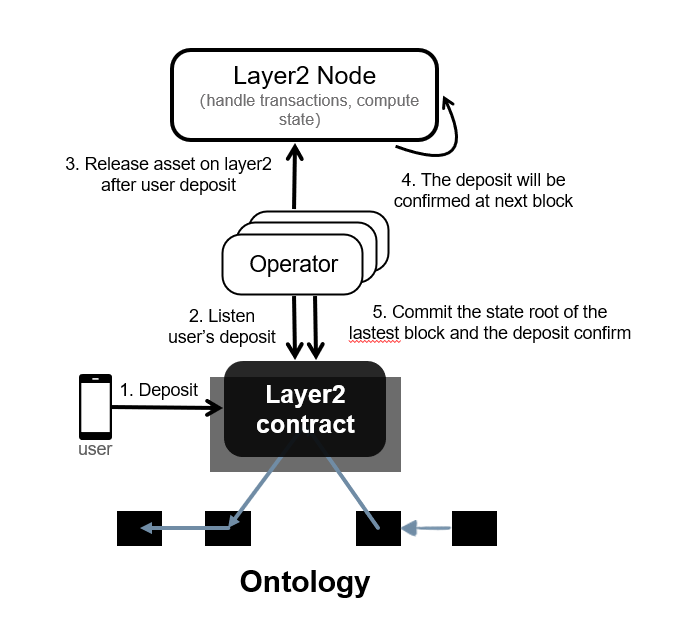
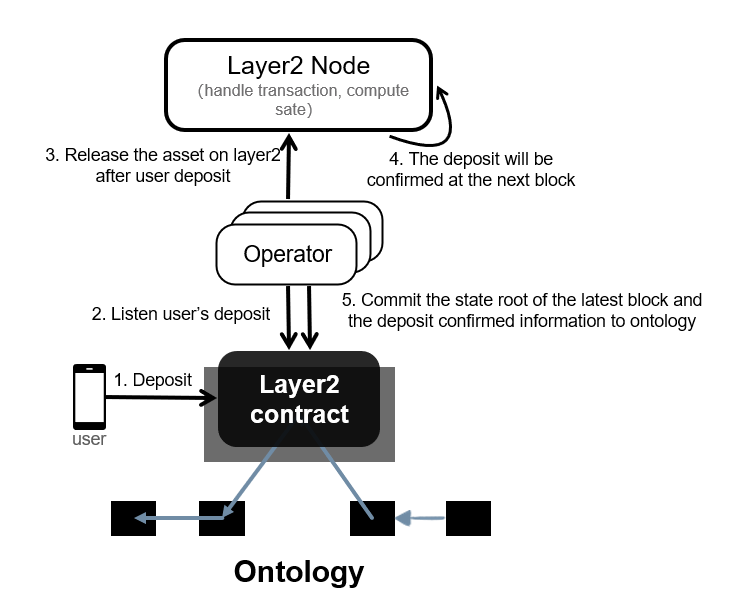
update document (#33)
* update doc

* update doc

* update doc

* update doc

* update doc

* udpate doc

Changed region(s): [[0.0616, 0.0619, 0.9545, 0.9593]]

diff --git a/doc/Layer2_User_Deployment_Guide.md b/doc/Layer2_User_Deployment_Guide.md
@@ -82,12 +82,12 @@ Sample `stateRoot`:
 
 ## Installing the Collector - Node
 
-Please refer to the Node program guide and download and compile the source code to run the node. Please reference [Layer2 Node install guide](https://github.com/ontio/ontology/blob/layer2/README.md), The node, `config.json` configuration file, and the `wallet_layer2.dat` Layer2 wallet file to the machine where the node is to be deployed. After uploading successfully, rename the wallet file from `wallet_layer2.dat` to `wallet.dat`.
+Please refer to the Node program guide and download and compile the source code to run the node. Please reference [Layer2 Node install guide](https://github.com/ontio/ontology/blob/layer2/README.md). After that, upload the ontology, `config.json` configuration file, and the `wallet_layer2.dat` Layer2 wallet file to the machine where the node is to be deployed. After uploading successfully, rename the wallet file from `wallet_layer2.dat` to `wallet.dat`.
 
 Use the following command to start the node:
 
 ```shell
-echo '1' | ./Node --layer2mode true --testmode-gen-block-time 6 --rpcport 20336 --nodeport 20338 --ws --wsport 20335 --rest --restport 20334 --loglevel 1 > log &
+echo '1' | ./ontology --layer2mode true --testmode-gen-block-time 6 --rpcport 20336 --nodeport 20338 --ws --wsport 20335 --rest --restport 20334 --loglevel 1 > log &
 ```
 
 Enter the password as `1` when prompted to start the node service in the back end.
@@ -171,7 +171,7 @@ CREATE TABLE `layer2commit` (
 
 ### Deploying the Operator
 
-Please refer to the operator guide and download and compile the source code. Please reference [Operator install guide](https://github.com/ontio/layer2/blob/master/operator/README.md) The operator, `config.json` configuration file, and the `wallet_layer2.dat` and `wallet_ontology.dat` wallet files to the machine on which the operator is to be deployed.
+Please refer to the operator guide and download and compile the source code. Please reference [Operator install guide](https://github.com/ontio/layer2/blob/master/operator/README.md). After that, upload the operator, `config.json` configuration file, and the `wallet_layer2.dat` and `wallet_ontology.dat` wallet files to the machine on which the operator is to be deployed.
 
 Download and set up the operator as described in the guide and compile the source code.
 
@@ -225,7 +225,7 @@ nohup ./Operator &
 
 Currently, the Layer2 transaction query service needs to be deployed on the same node as the operator service.
 
-Download and compile the server source code as per the server user guide, please reference [Layer2 server install guide](https://github.com/ontio/layer2/blob/master/server/README.md), and then upload the server, the `config.json` configuration file to the machine where server is to be deployed.
+Download and compile the server source code as per the server user guide. Please reference [Layer2 server install guide](https://github.com/ontio/layer2/blob/master/server/README.md). After that, upload then upload the server, the `config.json` configuration file to the machine where server is to be deployed.
 
 Sample server configuration:
 

diff --git a/README_CN.md b/README_CN.md
@@ -44,7 +44,7 @@ Operator是Layer2的安全守护程序，负责监听Ontology主链是否有到L
 
 5.	主链合约执行deposit释放操作，修改deposit资金状态为“已释放”。
 
-<div align=center><img width="360" height="450" src="doc/pic/user_deposit.png"/></div>
+<div align=center><img width="350" height="450" src="doc/pic/user_deposit_cn.png"/></div>
 
 ### Withdraw到Ontology
 
@@ -58,7 +58,7 @@ Operator是Layer2的安全守护程序，负责监听Ontology主链是否有到L
 
 5.	在State确认后，主链合约执行Withdraw释放请求，给目标账户转账，同时设置withdraw记录为“已释放“
 
-<div align=center><img width="499" height="450" src="doc/pic/user_withdraw.png"/></div>
+<div align=center><img width="450" height="450" src="doc/pic/user_withdraw_cn.png"/></div>
 
 ###	用户Layer交易
 
@@ -72,7 +72,7 @@ Operator是Layer2的安全守护程序，负责监听Ontology主链是否有到L
 
 ### 用户Layer交易
 
-<div align=center><img width="650" height="450" src="doc/pic/user_transfer.png"/></div>
+<div align=center><img width="550" height="450" src="doc/pic/user_transfer_cn.png"/></div>
 
 ### 存储以及验证
 
@@ -88,15 +88,22 @@ Operator是Layer2的安全守护程序，负责监听Ontology主链是否有到L
 
 6. 用户基于存储Proof和Layer2 State来验证Key的存储Value。
 
-<div align=center><img width="650" height="450" src="doc/pic/user_store.png"/></div>
+<div align=center><img width="650" height="450" src="doc/pic/user_store_cn.png"/></div>
 
 ## 安装
 
-安装手册 [layer2部署指导](https://github.com/ontio/layer2/blob/master/doc/Layer2_User_Deployment_Guide_CN.md)
+安装手册 [Layer2用户部署指导](https://github.com/ontio/layer2/blob/master/doc/Layer2_User_Deployment_Guide_CN.md)
+
+## Service
+
+Network|Layer2 Node|Layer2 Contract
+:--:|:--:|:--:
+MainNet|http://107.155.55.167:20336|5f4e1bdba28f0183fe4e90929de3b45baca2e831
+TestNet|http://152.32.217.204:20336|f05db35f619a991435b160b21e4d9371fdc0d9f2
 
 ## 使用
 
-请使用[Layer2的SDK](https://github.com/ontio/ontology-go-sdk/tree/layer2)
+请使用[Layer2 SDK](https://github.com/ontio/ontology-go-sdk/tree/layer2)
 
 以下是一个示例，从Layer2的合约7680bc3227089ee6ac790be698e88bcd0be04609中查询存储的Value并验证。
 

diff --git a/README.md b/README.md
@@ -44,7 +44,7 @@ With each new Layer2 block the state is updated and each new key inserted into t
 
 5.	The main chain releases the deposit amount and updates the deposit amount state to "released".
 
-<div align=center><img width="360" height="450" src="doc/pic/user_deposit.png"/></div>
+<div align=center><img width="550" height="450" src="doc/pic/user_deposit.png"/></div>
 
 ### Withdraw to Ontology
 
@@ -58,7 +58,7 @@ With each new Layer2 block the state is updated and each new key inserted into t
 
 5.	Once the state is confirmed, The main chain processes and executes the withdrawal release request, sends the withdrawal amount to the target account, and sets the withdraw state to "released".
 
-<div align=center><img width="499" height="450" src="doc/pic/user_withdraw.png"/></div>
+<div align=center><img width="750" height="450" src="doc/pic/user_withdraw.png"/></div>
 
 ###	User Layer Transactions
 
@@ -70,7 +70,7 @@ With each new Layer2 block the state is updated and each new key inserted into t
 
 4.	System then awaits state confirmation.
 
-<div align=center><img width="650" height="450" src="doc/pic/user_transfer.png"/></div>
+<div align=center><img width="550" height="450" src="doc/pic/user_transfer.png"/></div>
 
 ### Storage and Verification
 
@@ -90,11 +90,18 @@ With each new Layer2 block the state is updated and each new key inserted into t
 
 ## install
 
-please reference [layer2 deployment guide](https://github.com/ontio/layer2/blob/master/doc/Layer2_User_Deployment_Guide.md)
+Please reference [Layer2 User Deployment Guide](https://github.com/ontio/layer2/blob/master/doc/Layer2_User_Deployment_Guide.md)
+
+## Service
+
+Network|Layer2 Node|Layer2 Contract
+:--:|:--:|:--:
+MainNet|http://107.155.55.167:20336|5f4e1bdba28f0183fe4e90929de3b45baca2e831
+TestNet|http://152.32.217.204:20336|f05db35f619a991435b160b21e4d9371fdc0d9f2
 
 ## Usage
 
-Please use [Layer2 sdk](https://github.com/ontio/ontology-go-sdk/tree/layer2)
+Please use [Layer2 SDK](https://github.com/ontio/ontology-go-sdk/tree/layer2)
 
 Here is an illustration that demonstrates fetching and verifying the stored value from the Layer2 contract `7680bc3227089ee6ac790be698e88bcd0be04609`.
 
